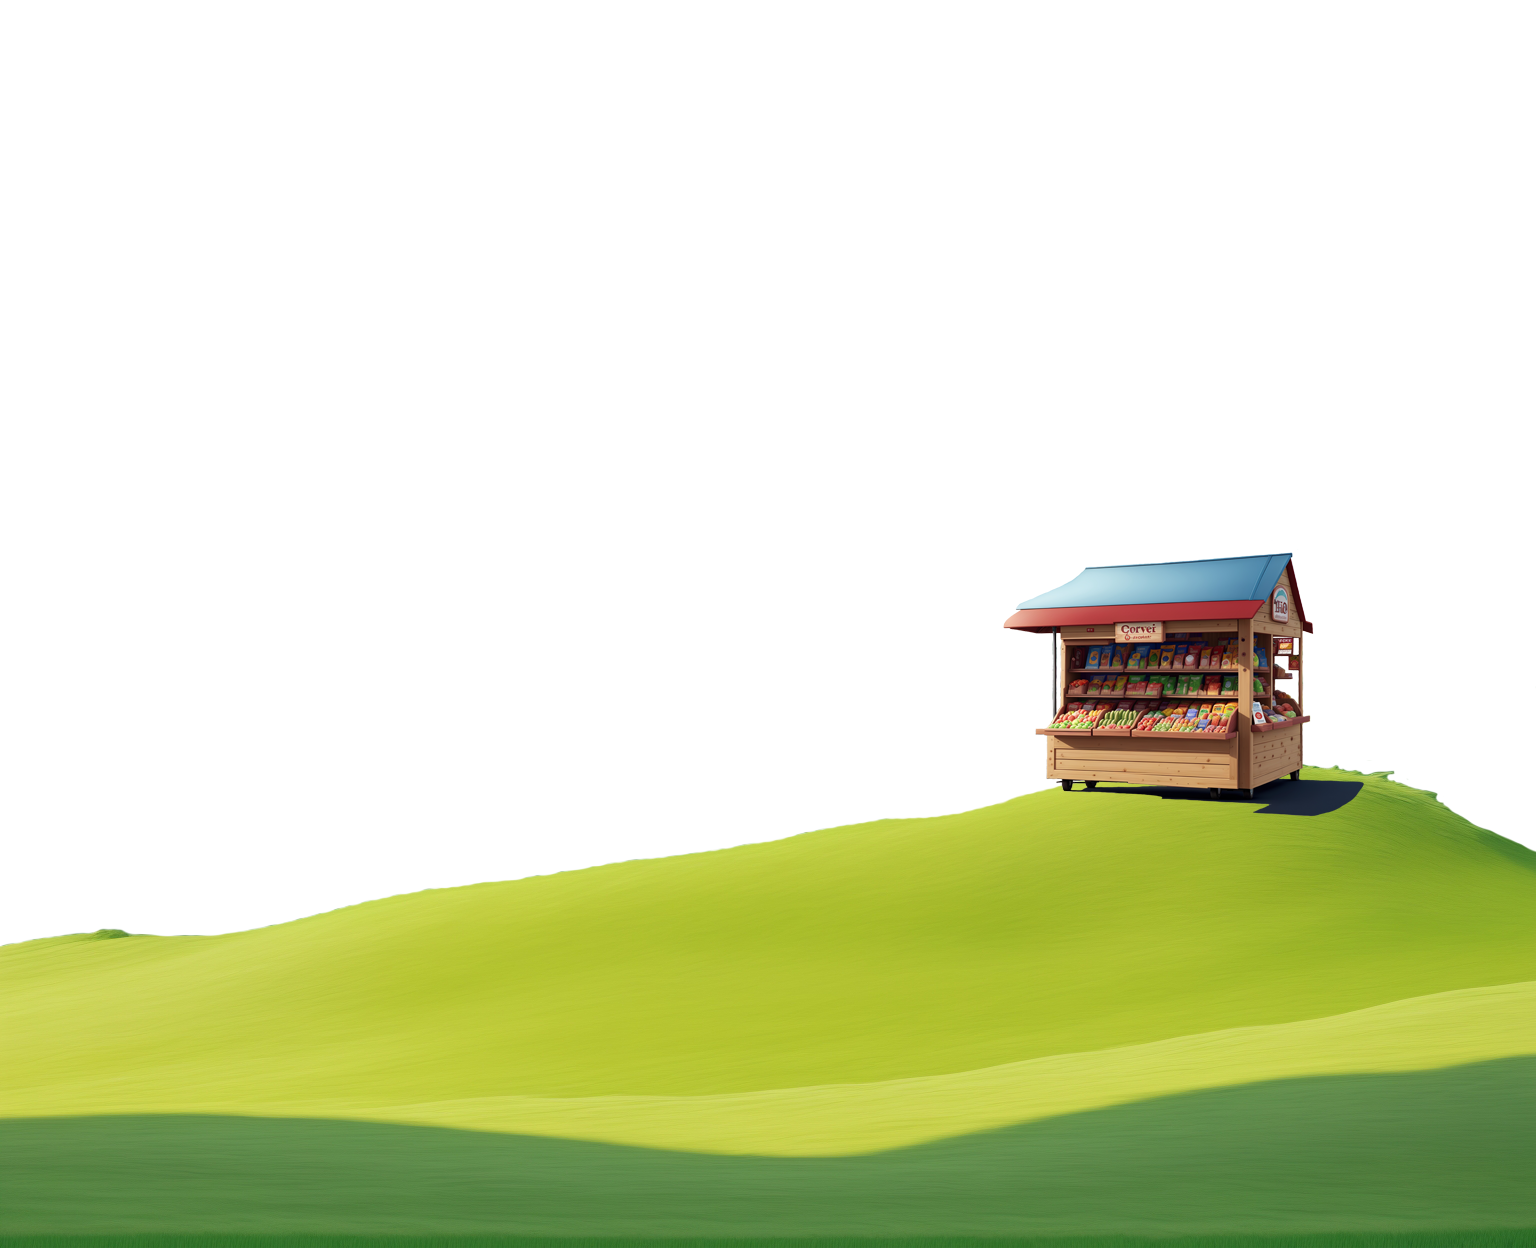
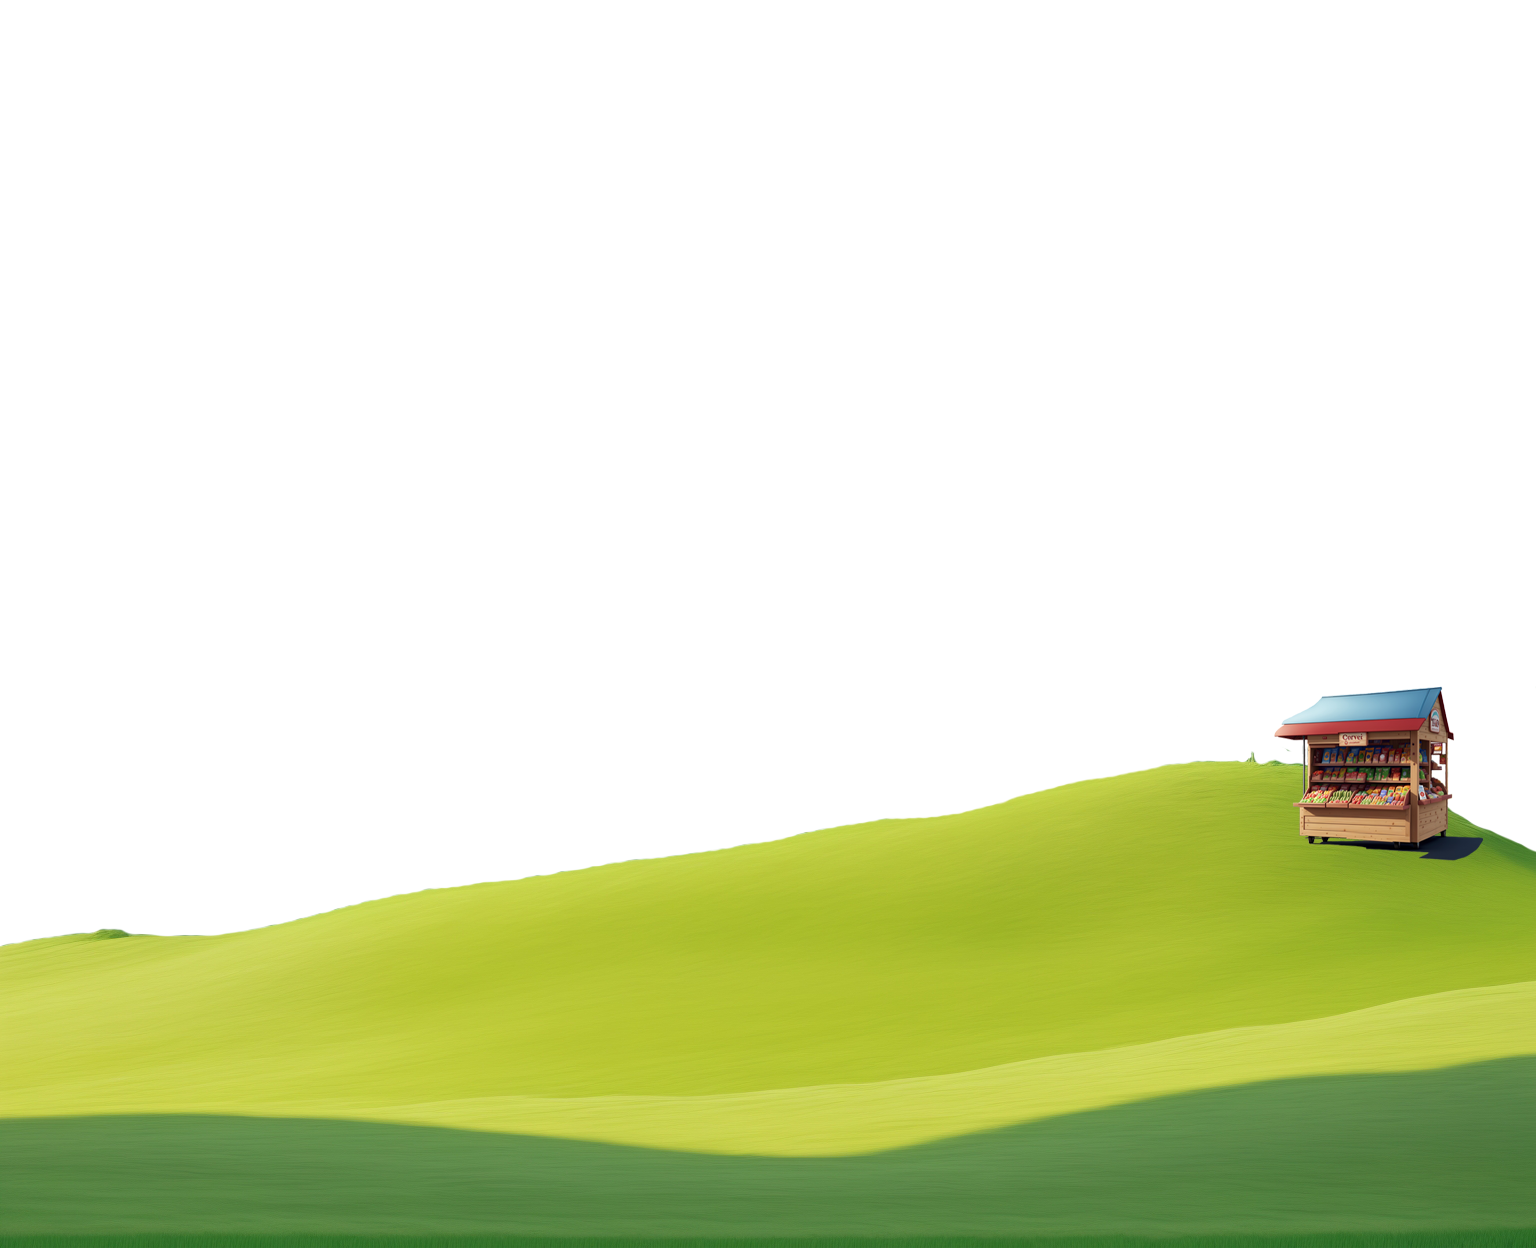
Updating herocanvas animation hill01 and hill02

Changed region(s): [[0.6562, 0.4375, 0.9688, 0.6875]]

diff --git a/app/(components)/Dashboard/HeroCanvasLogic.tsx b/app/(components)/Dashboard/HeroCanvasLogic.tsx
@@ -4,34 +4,30 @@ export const draw = (
 	skyImg: HTMLImageElement,
 	mountainImg: HTMLImageElement,
 	hill01Img: HTMLImageElement,
-	hill02Img: HTMLImageElement
+	hill02Img: HTMLImageElement,
+	canvasHeight: number,
+	canvasWidth: number
 ) => {
 	context.clearRect(0, 0, context.canvas.width, context.canvas.height);
 	const delta = (count % context.canvas.height) / 2;
 
-	drawSky(context, count, skyImg);
+	drawSky(context, count, skyImg, canvasHeight, canvasWidth);
 	drawMountain(context, count, mountainImg);
 	drawHill01(context, count, hill01Img);
 	drawHill02(context, count, hill02Img);
 };
 
-const drawSky = (context: any, count: number, skyImg: HTMLImageElement) => {
+const drawSky = (
+	context: any,
+	count: number,
+	skyImg: HTMLImageElement,
+	canvasHeight: number,
+	canvasWidth: number
+) => {
 	if (count <= 1100) {
-		context.drawImage(
-			skyImg,
-			0,
-			0 - count,
-			context.canvas.width,
-			context.canvas.height * 3
-		);
+		context.drawImage(skyImg, 0, 0 - count, canvasWidth, canvasHeight * 3);
 	} else {
-		context.drawImage(
-			skyImg,
-			0,
-			-1100,
-			context.canvas.width,
-			context.canvas.height * 3
-		);
+		context.drawImage(skyImg, 0, -1100, canvasWidth, canvasHeight * 3);
 	}
 };
 
@@ -136,6 +132,10 @@ const drawHill02 = (
 			);
 		} else if (count < 1900) {
 			let offsetWidth = count - 1300;
+			console.log(
+				"hillWidth - offsetWidth * 2 : ",
+				hillWidth - offsetWidth * 2
+			);
 			context.drawImage(
 				hill02Img,
 				hillX + offsetWidth * 2,
@@ -144,13 +144,25 @@ const drawHill02 = (
 				context.canvas.height
 			);
 		} else {
-			context.drawImage(
-				hill02Img,
-				-2,
-				context.canvas.height - 600,
-				1202,
-				context.canvas.height
-			);
+			if (count <= 2000) {
+				let heightOffset = count - 2000;
+				let hillY = count - 2000;
+				context.drawImage(
+					hill02Img,
+					-2,
+					hillY,
+					1202,
+					context.canvas.height - heightOffset
+				);
+			} else {
+				context.drawImage(
+					hill02Img,
+					-2,
+					context.canvas.height - 600,
+					1202,
+					context.canvas.height
+				);
+			}
 		}
 	}
 };

diff --git a/app/(components)/Dashboard/useCanvas.tsx b/app/(components)/Dashboard/useCanvas.tsx
@@ -9,6 +9,8 @@ const useCanvas = (draw: any) => {
 		const context = canvas.getContext("2d");
 		let count = context.canvas.height;
 		let animationID: number;
+		let canvasHeight = context.canvas.height;
+		let canvasWidth = context.canvas.width;
 
 		let skyImg = new Image();
 		skyImg.src = "/images/blueSky.jpg";
@@ -21,7 +23,16 @@ const useCanvas = (draw: any) => {
 
 		const renderer = () => {
 			count++;
-			draw(context, count, skyImg, mountainImg, hill01Img, hill02Img);
+			draw(
+				context,
+				count,
+				skyImg,
+				mountainImg,
+				hill01Img,
+				hill02Img,
+				canvasHeight,
+				canvasWidth
+			);
 			animationID = window.requestAnimationFrame(renderer);
 		};
 		renderer();
